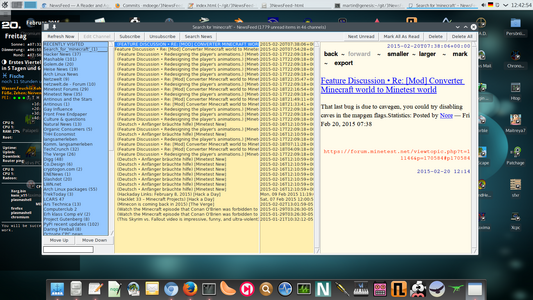
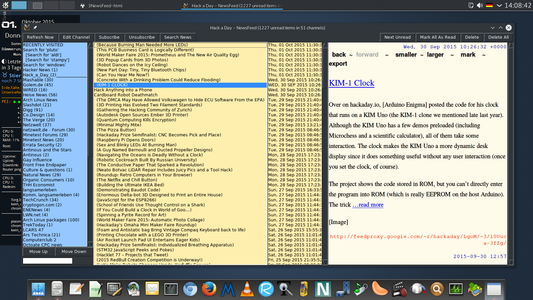
update Linux screenshot

diff --git a/index.html b/index.html
@@ -40,7 +40,7 @@
   <td><a href="newsfeed-mac.png"><img src="mac-mini.png" border="0" alt="NewsFeed on the Mac"></a></td>
  </tr>
  <tr>
-  <td align="center">Linux (KDE)</td>
+  <td align="center">Linux (KDE with Breeze Dark theme)</td>
   <td align="center">OS X</td>
  </tr>
 </table>
